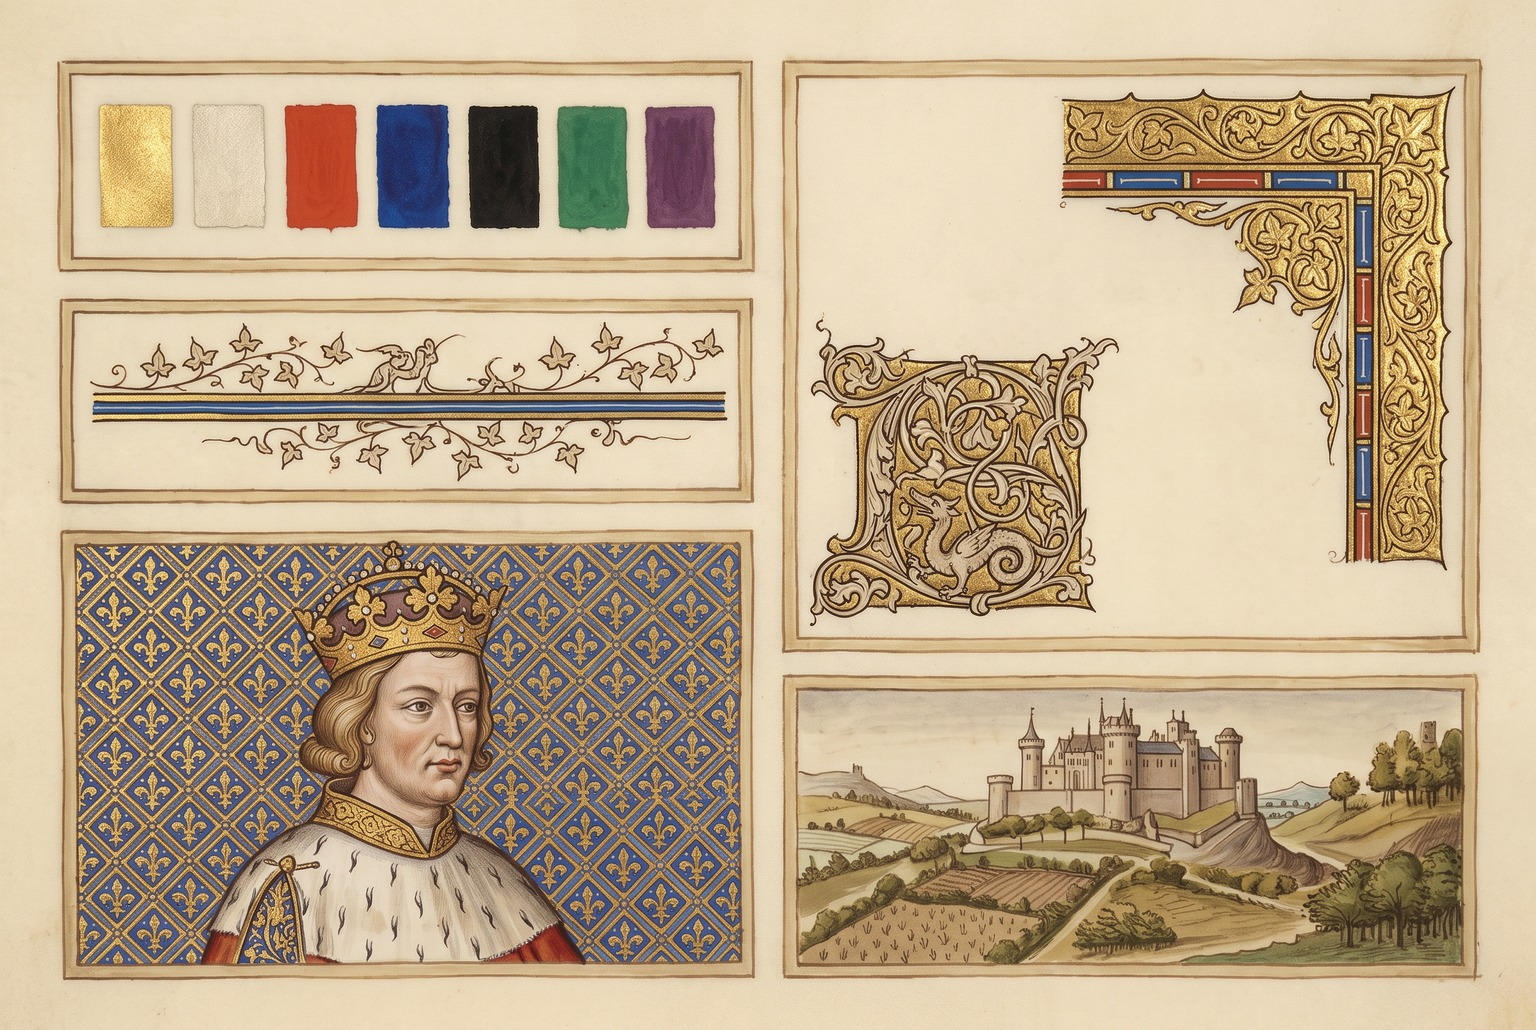
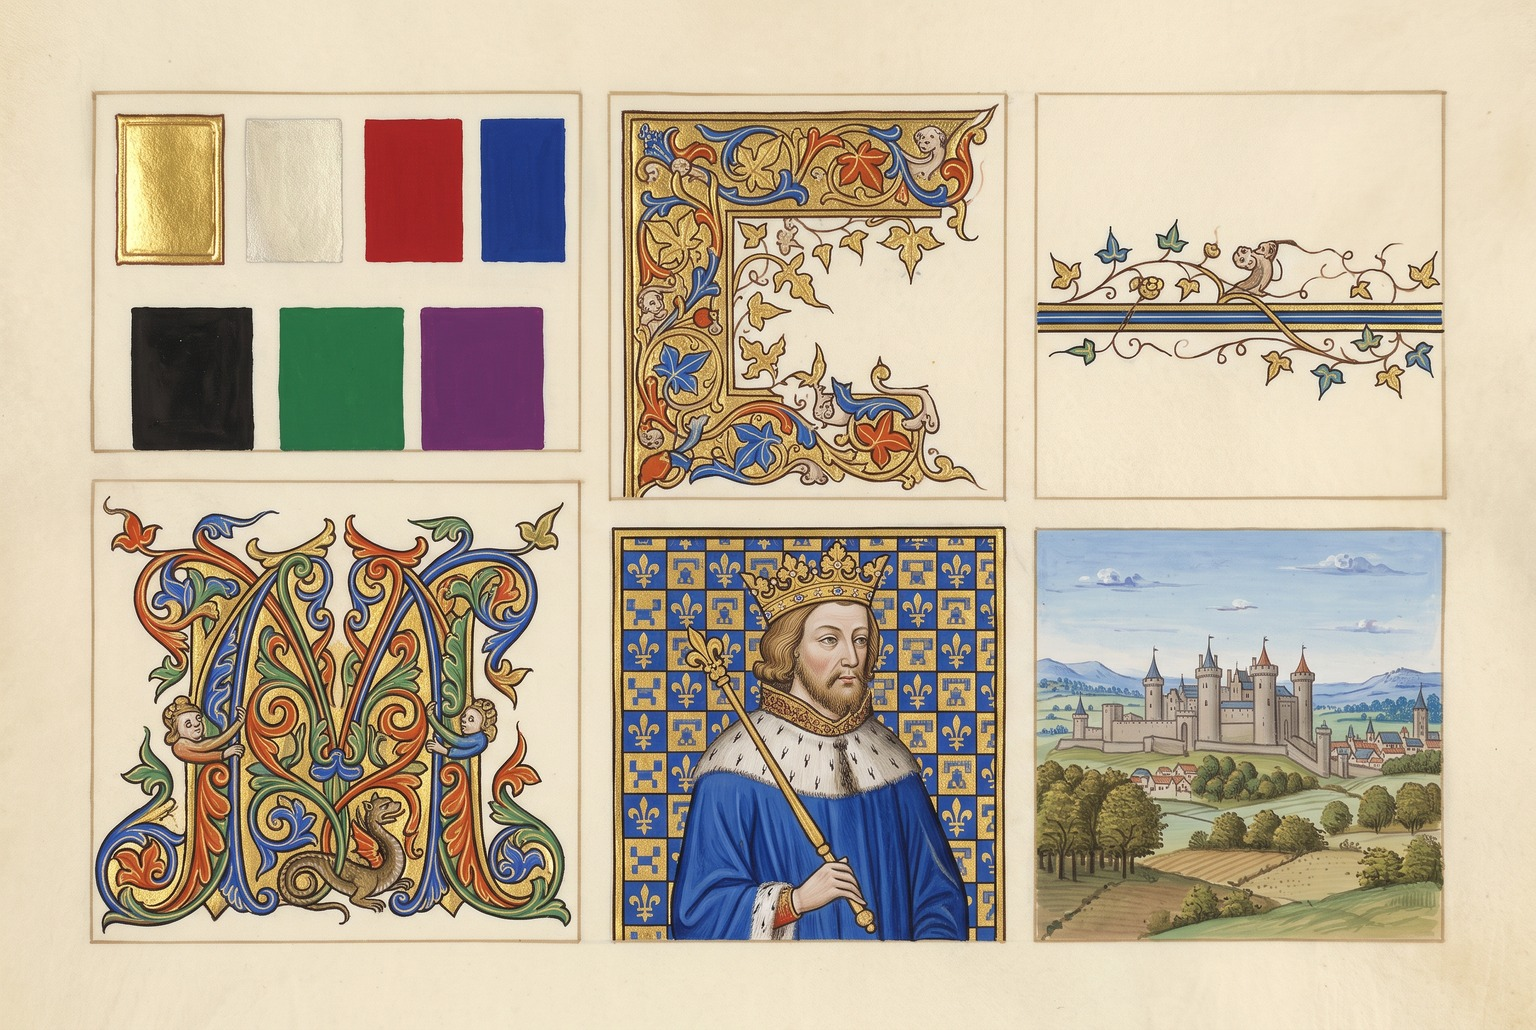
wip: NB-DA style anchor switched to v0 (player choice)

diff --git a/docs/wip/nb.md b/docs/wip/nb.md
@@ -25,7 +25,7 @@ Budget : plafond 10 $, section « Nano Banana NB » de `docs/budget.md` (cap pas
 ### NB-DA — Planche maîtresse (≤ 1 $, session principale)
 - [x] 4-6 folios domaine public → `tools/nb_raw/sources/` + `SOURCES.md`.
 - [x] 4 variantes NB2 2K 3:2 → planche contact → **jugement joueur**.
-- [x] `data/art/style/anchor.jpg` (v3, 1536 px JPEG) + `anchor.yaml` ; bible DA § 13. Commit.
+- [x] `data/art/style/anchor.jpg` (v0, 1536 px JPEG) + `anchor.yaml` ; bible DA § 13. Commit.
 
 ### NB0 — Sonde des modèles (≤ 1,5 $)
 - [ ] 3 sujets × {NB2, Lite, Pro} × {sans, avec ancre}, 1K ; grille `docs/research/nb0_models.png`.
@@ -40,4 +40,4 @@ Budget : plafond 10 $, section « Nano Banana NB » de `docs/budget.md` (cap pas
 
 ## Journal
 - 09-30 : spec approuvée, worktree créé.
-- 09-30 : NB-DA fait (0,40 $), v3 retenue par le joueur. Prochaine étape : NB0.
+- 09-30 : NB-DA fait (0,40 $), v0 retenue par le joueur (après v3). Prochaine étape : NB0.

diff --git a/docs/design/2026-09-25-bible-da.md b/docs/design/2026-09-25-bible-da.md
@@ -249,7 +249,7 @@ lumière vient de préréglages d'heure, bloc `time_of_day` de `data/fx/atmosphe
 
 ## 13. Image d'ancrage (NB, 30/09)
 
-`data/art/style/anchor.jpg` (planche maîtresse v3, Nano Banana 2, choisie par le joueur ;
+`data/art/style/anchor.jpg` (planche maîtresse v0, Nano Banana 2, choisie par le joueur ;
 provenance dans `anchor.yaml`) est la référence visuelle du **registre enluminure** (2D).
 Toute génération de ce registre par Nano Banana joint l'ancre en image 1 et le dit dans le
 prompt (« Image 1 is the style reference »), en plus du bloc `STYLE`. Elle ne s'applique pas
